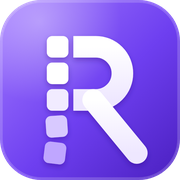
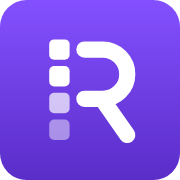
Add files via upload

diff --git a/products/rightowner/index.html b/products/rightowner/index.html
@@ -27,7 +27,7 @@
 <a class="skip" href="#main">Skip to content</a>
 <header class="site-header">
   <nav class="container nav" aria-label="Main">
-    <a class="logo" href="/" aria-label="RuBuild Services home"><img src="/assets/img/rubuild-mark.svg" alt="" width="30" height="36"><b>Ru<span>Build</span></b></a>
+    <a class="logo" href="/" aria-label="RuBuild Services home"><img src="/assets/img/rubuild-icon.svg" alt="" width="34" height="34"><b>Ru<span>Build</span></b></a>
     <button class="menu-btn" type="button" aria-expanded="false" aria-controls="nav-links">Menu</button>
     <ul class="nav-links" id="nav-links"><li><a href="/">Home</a></li><li><a href="/#products">Products</a></li><li><a href="/products/rightowner/" aria-current="page">RightOwner</a></li><li><a href="/services/">Services</a></li><li><a href="/about/">About</a></li><li><a href="/contact/">Contact</a></li></ul>
   </nav>
@@ -40,7 +40,7 @@
       <span class="eyebrow">RightOwner for Microsoft Teams</span>
       <h1>The ownership directory for Microsoft 365 companies.</h1>
       <p class="lead">Every system, process, vendor and budget, with an owner and a backup. Searchable in Teams, kept current automatically.</p>
-      <div class="hero-actions"><a class="btn btn-light appsource" href="/products/rightowner/"><span class="lbl">Get RightOwner on AppSource</span></a><a class="btn btn-ghost" href="#pricing">See pricing</a></div>
+      <div class="hero-actions"><a class="btn btn-light appsource" href="/products/rightowner/"><span class="lbl">Get RightOwner on Microsoft Marketplace</span></a><a class="btn btn-ghost" href="#pricing">See pricing</a></div>
       <p class="hero-note">Free for up to 25 items · Pro and Business plans launching soon</p>
     </div>
     <div class="hero-shot"><picture><source srcset="/assets/img/shot-search.webp" type="image/webp"><img src="/assets/img/shot-search.jpg" alt="Searching the RightOwner directory in Microsoft Teams" width="1200" height="675"></picture></div>
@@ -102,15 +102,15 @@
       <div class="plan"><h3>Free</h3><p class="for">Try it properly with your team.</p>
         <div class="price">$0</div><div class="price-alt">Free forever</div>
         <ul><li>Up to 25 items</li><li>Unlimited people</li><li>Every feature included</li></ul>
-        <a class="btn btn-outline appsource" href="/products/rightowner/"><span class="lbl">Get RightOwner on AppSource</span></a></div>
+        <a class="btn btn-outline appsource" href="/products/rightowner/"><span class="lbl">Get RightOwner on Microsoft Marketplace</span></a></div>
       <div class="plan featured"><span class="badge">MOST POPULAR</span><h3>Pro</h3><p class="for">For companies with up to 250 people.</p>
         <div class="price">$29<small> / month</small></div><div class="price-alt">or $290 / year (2 months free)</div>
         <ul><li>Unlimited items</li><li>Unlimited people (up to 250)</li><li>Every feature included</li><li>30-day free trial</li></ul>
-        <a class="btn btn-primary appsource" href="/products/rightowner/"><span class="lbl">Get RightOwner on AppSource</span></a></div>
+        <a class="btn btn-primary appsource" href="/products/rightowner/"><span class="lbl">Get RightOwner on Microsoft Marketplace</span></a></div>
       <div class="plan"><h3>Business</h3><p class="for">For companies of any size.</p>
         <div class="price">$79<small> / month</small></div><div class="price-alt">or $790 / year (2 months free)</div>
         <ul><li>Unlimited items</li><li>Unlimited people</li><li>Every feature included</li><li>30-day free trial</li></ul>
-        <a class="btn btn-outline appsource" href="/products/rightowner/"><span class="lbl">Get RightOwner on AppSource</span></a></div>
+        <a class="btn btn-outline appsource" href="/products/rightowner/"><span class="lbl">Get RightOwner on Microsoft Marketplace</span></a></div>
     </div>
     <p class="fineprint">Prices in US dollars; Microsoft bills in your local currency where applicable. Change or cancel any time in the Microsoft 365 admin center.</p>
   </div>
@@ -133,14 +133,14 @@
   <p style="text-align:center;margin-top:20px"><a href="/faq/">All questions →</a></p>
 </div></section>
 <section><div class="container"><div class="cta"><div><h2>Find the right owner in seconds</h2><p>Install RightOwner in Microsoft Teams and set up your directory in minutes.</p></div>
-    <div class="hero-actions"><a class="btn btn-light appsource" href="/products/rightowner/"><span class="lbl">Get RightOwner on AppSource</span></a><a class="btn btn-ghost" href="/contact/">Talk to us</a></div></div></div></section>
+    <div class="hero-actions"><a class="btn btn-light appsource" href="/products/rightowner/"><span class="lbl">Get RightOwner on Microsoft Marketplace</span></a><a class="btn btn-ghost" href="/contact/">Talk to us</a></div></div></div></section>
 
 </main>
 <footer class="site-footer">
   <div class="container">
     <div class="footer-grid">
       <div>
-        <a class="logo" href="/"><img src="/assets/img/rubuild-mark-white.svg" alt="" width="30" height="36"><b>Ru<span>Build</span></b></a>
+        <a class="logo" href="/"><img src="/assets/img/rubuild-icon.svg" alt="" width="34" height="34"><b>Ru<span>Build</span></b></a>
         <p style="margin:14px 0 0;max-width:320px">We build Microsoft 365 apps that solve everyday work problems.</p>
       </div>
       <div><h4>Products</h4><ul><li><a href="/products/rightowner/">RightOwner</a></li><li><a href="/products/rightowner/#pricing">RightOwner pricing</a></li><li><a href="/faq/">FAQ</a></li></ul></div>

diff --git a/index.html b/index.html
@@ -27,7 +27,7 @@
 <a class="skip" href="#main">Skip to content</a>
 <header class="site-header">
   <nav class="container nav" aria-label="Main">
-    <a class="logo" href="/" aria-label="RuBuild Services home"><img src="/assets/img/rubuild-mark.svg" alt="" width="30" height="36"><b>Ru<span>Build</span></b></a>
+    <a class="logo" href="/" aria-label="RuBuild Services home"><img src="/assets/img/rubuild-icon.svg" alt="" width="34" height="34"><b>Ru<span>Build</span></b></a>
     <button class="menu-btn" type="button" aria-expanded="false" aria-controls="nav-links">Menu</button>
     <ul class="nav-links" id="nav-links"><li><a href="/" aria-current="page">Home</a></li><li><a href="/#products">Products</a></li><li><a href="/products/rightowner/">RightOwner</a></li><li><a href="/services/">Services</a></li><li><a href="/about/">About</a></li><li><a href="/contact/">Contact</a></li></ul>
   </nav>
@@ -41,7 +41,7 @@
       <h1>We build Microsoft 365 apps that fix everyday work problems.</h1>
       <p class="lead">Simple, focused apps that live inside Microsoft Teams and Microsoft 365, keep your data in your own tenant, and are billed through Microsoft.</p>
       <div class="hero-actions"><a class="btn btn-light" href="/#products">Explore our products</a><a class="btn btn-ghost" href="/contact/">Talk to us</a></div>
-      <p class="hero-note">Microsoft-verified publisher</p>
+      <p class="hero-note">Microsoft-verified publisher · Apps on Microsoft AppSource</p>
     </div>
     <div class="hero-shot"><picture><source srcset="/assets/img/shot-directory.webp" type="image/webp"><img src="/assets/img/shot-directory.jpg" alt="RightOwner, a RuBuild app, running in Microsoft Teams" width="1200" height="675"></picture></div>
   </div>
@@ -57,7 +57,7 @@
         <h3>Know who owns what, across your whole company.</h3>
         <p>One trusted directory of owners and backups for every system, process, vendor and budget. Search in Teams, spot owners who have left, and keep it current with 90-day check-ups.</p>
         <ul><li>Find the right person in seconds</li><li>Leaver alerts and one-step hand-over</li><li>Data stays in your own Microsoft 365</li><li>Free for up to 25 items · paid plans launching soon</li></ul>
-        <div class="hero-actions"><a class="btn btn-primary" href="/products/rightowner/">Learn more</a><a class="btn btn-outline appsource" href="/products/rightowner/"><span class="lbl">Get RightOwner on AppSource</span></a></div>
+        <div class="hero-actions"><a class="btn btn-primary" href="/products/rightowner/">Learn more</a><a class="btn btn-outline appsource" href="/products/rightowner/"><span class="lbl">Get RightOwner on Microsoft Marketplace</span></a></div>
       </div>
       <div class="shot"><picture><source srcset="/assets/img/shot-checkups.webp" type="image/webp"><img src="/assets/img/shot-checkups.jpg" alt="RightOwner ownership check-ups" width="1200" height="675" loading="lazy"></picture></div>
     </div>
@@ -95,7 +95,7 @@
   <div class="container">
     <div class="footer-grid">
       <div>
-        <a class="logo" href="/"><img src="/assets/img/rubuild-mark-white.svg" alt="" width="30" height="36"><b>Ru<span>Build</span></b></a>
+        <a class="logo" href="/"><img src="/assets/img/rubuild-icon.svg" alt="" width="34" height="34"><b>Ru<span>Build</span></b></a>
         <p style="margin:14px 0 0;max-width:320px">We build Microsoft 365 apps that solve everyday work problems.</p>
       </div>
       <div><h4>Products</h4><ul><li><a href="/products/rightowner/">RightOwner</a></li><li><a href="/products/rightowner/#pricing">RightOwner pricing</a></li><li><a href="/faq/">FAQ</a></li></ul></div>

diff --git a/about/index.html b/about/index.html
@@ -27,7 +27,7 @@
 <a class="skip" href="#main">Skip to content</a>
 <header class="site-header">
   <nav class="container nav" aria-label="Main">
-    <a class="logo" href="/" aria-label="RuBuild Services home"><img src="/assets/img/rubuild-mark.svg" alt="" width="30" height="36"><b>Ru<span>Build</span></b></a>
+    <a class="logo" href="/" aria-label="RuBuild Services home"><img src="/assets/img/rubuild-icon.svg" alt="" width="34" height="34"><b>Ru<span>Build</span></b></a>
     <button class="menu-btn" type="button" aria-expanded="false" aria-controls="nav-links">Menu</button>
     <ul class="nav-links" id="nav-links"><li><a href="/">Home</a></li><li><a href="/#products">Products</a></li><li><a href="/products/rightowner/">RightOwner</a></li><li><a href="/services/">Services</a></li><li><a href="/about/" aria-current="page">About</a></li><li><a href="/contact/">Contact</a></li></ul>
   </nav>
@@ -46,14 +46,14 @@
   <p>RuBuild Services · Microsoft-verified publisher<br>Email: <a href="mailto:support@rubuild.com">support@rubuild.com</a></p>
 </div></section>
 <section><div class="container"><div class="cta"><div><h2>Find the right owner in seconds</h2><p>Install RightOwner in Microsoft Teams and set up your directory in minutes.</p></div>
-    <div class="hero-actions"><a class="btn btn-light appsource" href="/products/rightowner/"><span class="lbl">Get RightOwner on AppSource</span></a><a class="btn btn-ghost" href="/contact/">Talk to us</a></div></div></div></section>
+    <div class="hero-actions"><a class="btn btn-light appsource" href="/products/rightowner/"><span class="lbl">Get RightOwner on Microsoft Marketplace</span></a><a class="btn btn-ghost" href="/contact/">Talk to us</a></div></div></div></section>
 
 </main>
 <footer class="site-footer">
   <div class="container">
     <div class="footer-grid">
       <div>
-        <a class="logo" href="/"><img src="/assets/img/rubuild-mark-white.svg" alt="" width="30" height="36"><b>Ru<span>Build</span></b></a>
+        <a class="logo" href="/"><img src="/assets/img/rubuild-icon.svg" alt="" width="34" height="34"><b>Ru<span>Build</span></b></a>
         <p style="margin:14px 0 0;max-width:320px">We build Microsoft 365 apps that solve everyday work problems.</p>
       </div>
       <div><h4>Products</h4><ul><li><a href="/products/rightowner/">RightOwner</a></li><li><a href="/products/rightowner/#pricing">RightOwner pricing</a></li><li><a href="/faq/">FAQ</a></li></ul></div>

diff --git a/contact/index.html b/contact/index.html
@@ -27,7 +27,7 @@
 <a class="skip" href="#main">Skip to content</a>
 <header class="site-header">
   <nav class="container nav" aria-label="Main">
-    <a class="logo" href="/" aria-label="RuBuild Services home"><img src="/assets/img/rubuild-mark.svg" alt="" width="30" height="36"><b>Ru<span>Build</span></b></a>
+    <a class="logo" href="/" aria-label="RuBuild Services home"><img src="/assets/img/rubuild-icon.svg" alt="" width="34" height="34"><b>Ru<span>Build</span></b></a>
     <button class="menu-btn" type="button" aria-expanded="false" aria-controls="nav-links">Menu</button>
     <ul class="nav-links" id="nav-links"><li><a href="/">Home</a></li><li><a href="/#products">Products</a></li><li><a href="/products/rightowner/">RightOwner</a></li><li><a href="/services/">Services</a></li><li><a href="/about/">About</a></li><li><a href="/contact/" aria-current="page">Contact</a></li></ul>
   </nav>
@@ -54,7 +54,7 @@
   <div class="container">
     <div class="footer-grid">
       <div>
-        <a class="logo" href="/"><img src="/assets/img/rubuild-mark-white.svg" alt="" width="30" height="36"><b>Ru<span>Build</span></b></a>
+        <a class="logo" href="/"><img src="/assets/img/rubuild-icon.svg" alt="" width="34" height="34"><b>Ru<span>Build</span></b></a>
         <p style="margin:14px 0 0;max-width:320px">We build Microsoft 365 apps that solve everyday work problems.</p>
       </div>
       <div><h4>Products</h4><ul><li><a href="/products/rightowner/">RightOwner</a></li><li><a href="/products/rightowner/#pricing">RightOwner pricing</a></li><li><a href="/faq/">FAQ</a></li></ul></div>

diff --git a/services/index.html b/services/index.html
@@ -27,7 +27,7 @@
 <a class="skip" href="#main">Skip to content</a>
 <header class="site-header">
   <nav class="container nav" aria-label="Main">
-    <a class="logo" href="/" aria-label="RuBuild Services home"><img src="/assets/img/rubuild-mark.svg" alt="" width="30" height="36"><b>Ru<span>Build</span></b></a>
+    <a class="logo" href="/" aria-label="RuBuild Services home"><img src="/assets/img/rubuild-icon.svg" alt="" width="34" height="34"><b>Ru<span>Build</span></b></a>
     <button class="menu-btn" type="button" aria-expanded="false" aria-controls="nav-links">Menu</button>
     <ul class="nav-links" id="nav-links"><li><a href="/">Home</a></li><li><a href="/#products">Products</a></li><li><a href="/products/rightowner/">RightOwner</a></li><li><a href="/services/" aria-current="page">Services</a></li><li><a href="/about/">About</a></li><li><a href="/contact/">Contact</a></li></ul>
   </nav>
@@ -65,7 +65,7 @@
   <div class="container">
     <div class="footer-grid">
       <div>
-        <a class="logo" href="/"><img src="/assets/img/rubuild-mark-white.svg" alt="" width="30" height="36"><b>Ru<span>Build</span></b></a>
+        <a class="logo" href="/"><img src="/assets/img/rubuild-icon.svg" alt="" width="34" height="34"><b>Ru<span>Build</span></b></a>
         <p style="margin:14px 0 0;max-width:320px">We build Microsoft 365 apps that solve everyday work problems.</p>
       </div>
       <div><h4>Products</h4><ul><li><a href="/products/rightowner/">RightOwner</a></li><li><a href="/products/rightowner/#pricing">RightOwner pricing</a></li><li><a href="/faq/">FAQ</a></li></ul></div>

diff --git a/404.html b/404.html
@@ -27,7 +27,7 @@
 <a class="skip" href="#main">Skip to content</a>
 <header class="site-header">
   <nav class="container nav" aria-label="Main">
-    <a class="logo" href="/" aria-label="RuBuild Services home"><img src="/assets/img/rubuild-mark.svg" alt="" width="30" height="36"><b>Ru<span>Build</span></b></a>
+    <a class="logo" href="/" aria-label="RuBuild Services home"><img src="/assets/img/rubuild-icon.svg" alt="" width="34" height="34"><b>Ru<span>Build</span></b></a>
     <button class="menu-btn" type="button" aria-expanded="false" aria-controls="nav-links">Menu</button>
     <ul class="nav-links" id="nav-links"><li><a href="/">Home</a></li><li><a href="/#products">Products</a></li><li><a href="/products/rightowner/">RightOwner</a></li><li><a href="/services/">Services</a></li><li><a href="/about/">About</a></li><li><a href="/contact/">Contact</a></li></ul>
   </nav>
@@ -40,7 +40,7 @@
   <div class="container">
     <div class="footer-grid">
       <div>
-        <a class="logo" href="/"><img src="/assets/img/rubuild-mark-white.svg" alt="" width="30" height="36"><b>Ru<span>Build</span></b></a>
+        <a class="logo" href="/"><img src="/assets/img/rubuild-icon.svg" alt="" width="34" height="34"><b>Ru<span>Build</span></b></a>
         <p style="margin:14px 0 0;max-width:320px">We build Microsoft 365 apps that solve everyday work problems.</p>
       </div>
       <div><h4>Products</h4><ul><li><a href="/products/rightowner/">RightOwner</a></li><li><a href="/products/rightowner/#pricing">RightOwner pricing</a></li><li><a href="/faq/">FAQ</a></li></ul></div>

diff --git a/faq/index.html b/faq/index.html
@@ -27,7 +27,7 @@
 <a class="skip" href="#main">Skip to content</a>
 <header class="site-header">
   <nav class="container nav" aria-label="Main">
-    <a class="logo" href="/" aria-label="RuBuild Services home"><img src="/assets/img/rubuild-mark.svg" alt="" width="30" height="36"><b>Ru<span>Build</span></b></a>
+    <a class="logo" href="/" aria-label="RuBuild Services home"><img src="/assets/img/rubuild-icon.svg" alt="" width="34" height="34"><b>Ru<span>Build</span></b></a>
     <button class="menu-btn" type="button" aria-expanded="false" aria-controls="nav-links">Menu</button>
     <ul class="nav-links" id="nav-links"><li><a href="/">Home</a></li><li><a href="/#products">Products</a></li><li><a href="/products/rightowner/">RightOwner</a></li><li><a href="/services/">Services</a></li><li><a href="/about/">About</a></li><li><a href="/contact/">Contact</a></li></ul>
   </nav>
@@ -40,7 +40,7 @@
   <div class="container">
     <div class="footer-grid">
       <div>
-        <a class="logo" href="/"><img src="/assets/img/rubuild-mark-white.svg" alt="" width="30" height="36"><b>Ru<span>Build</span></b></a>
+        <a class="logo" href="/"><img src="/assets/img/rubuild-icon.svg" alt="" width="34" height="34"><b>Ru<span>Build</span></b></a>
         <p style="margin:14px 0 0;max-width:320px">We build Microsoft 365 apps that solve everyday work problems.</p>
       </div>
       <div><h4>Products</h4><ul><li><a href="/products/rightowner/">RightOwner</a></li><li><a href="/products/rightowner/#pricing">RightOwner pricing</a></li><li><a href="/faq/">FAQ</a></li></ul></div>

diff --git a/privacy/index.html b/privacy/index.html
@@ -27,7 +27,7 @@
 <a class="skip" href="#main">Skip to content</a>
 <header class="site-header">
   <nav class="container nav" aria-label="Main">
-    <a class="logo" href="/" aria-label="RuBuild Services home"><img src="/assets/img/rubuild-mark.svg" alt="" width="30" height="36"><b>Ru<span>Build</span></b></a>
+    <a class="logo" href="/" aria-label="RuBuild Services home"><img src="/assets/img/rubuild-icon.svg" alt="" width="34" height="34"><b>Ru<span>Build</span></b></a>
     <button class="menu-btn" type="button" aria-expanded="false" aria-controls="nav-links">Menu</button>
     <ul class="nav-links" id="nav-links"><li><a href="/">Home</a></li><li><a href="/#products">Products</a></li><li><a href="/products/rightowner/">RightOwner</a></li><li><a href="/services/">Services</a></li><li><a href="/about/">About</a></li><li><a href="/contact/">Contact</a></li></ul>
   </nav>
@@ -42,7 +42,7 @@
   <div class="container">
     <div class="footer-grid">
       <div>
-        <a class="logo" href="/"><img src="/assets/img/rubuild-mark-white.svg" alt="" width="30" height="36"><b>Ru<span>Build</span></b></a>
+        <a class="logo" href="/"><img src="/assets/img/rubuild-icon.svg" alt="" width="34" height="34"><b>Ru<span>Build</span></b></a>
         <p style="margin:14px 0 0;max-width:320px">We build Microsoft 365 apps that solve everyday work problems.</p>
       </div>
       <div><h4>Products</h4><ul><li><a href="/products/rightowner/">RightOwner</a></li><li><a href="/products/rightowner/#pricing">RightOwner pricing</a></li><li><a href="/faq/">FAQ</a></li></ul></div>

diff --git a/support/index.html b/support/index.html
@@ -27,7 +27,7 @@
 <a class="skip" href="#main">Skip to content</a>
 <header class="site-header">
   <nav class="container nav" aria-label="Main">
-    <a class="logo" href="/" aria-label="RuBuild Services home"><img src="/assets/img/rubuild-mark.svg" alt="" width="30" height="36"><b>Ru<span>Build</span></b></a>
+    <a class="logo" href="/" aria-label="RuBuild Services home"><img src="/assets/img/rubuild-icon.svg" alt="" width="34" height="34"><b>Ru<span>Build</span></b></a>
     <button class="menu-btn" type="button" aria-expanded="false" aria-controls="nav-links">Menu</button>
     <ul class="nav-links" id="nav-links"><li><a href="/">Home</a></li><li><a href="/#products">Products</a></li><li><a href="/products/rightowner/">RightOwner</a></li><li><a href="/services/">Services</a></li><li><a href="/about/">About</a></li><li><a href="/contact/">Contact</a></li></ul>
   </nav>
@@ -67,7 +67,7 @@
   <div class="container">
     <div class="footer-grid">
       <div>
-        <a class="logo" href="/"><img src="/assets/img/rubuild-mark-white.svg" alt="" width="30" height="36"><b>Ru<span>Build</span></b></a>
+        <a class="logo" href="/"><img src="/assets/img/rubuild-icon.svg" alt="" width="34" height="34"><b>Ru<span>Build</span></b></a>
         <p style="margin:14px 0 0;max-width:320px">We build Microsoft 365 apps that solve everyday work problems.</p>
       </div>
       <div><h4>Products</h4><ul><li><a href="/products/rightowner/">RightOwner</a></li><li><a href="/products/rightowner/#pricing">RightOwner pricing</a></li><li><a href="/faq/">FAQ</a></li></ul></div>

diff --git a/terms/index.html b/terms/index.html
@@ -27,7 +27,7 @@
 <a class="skip" href="#main">Skip to content</a>
 <header class="site-header">
   <nav class="container nav" aria-label="Main">
-    <a class="logo" href="/" aria-label="RuBuild Services home"><img src="/assets/img/rubuild-mark.svg" alt="" width="30" height="36"><b>Ru<span>Build</span></b></a>
+    <a class="logo" href="/" aria-label="RuBuild Services home"><img src="/assets/img/rubuild-icon.svg" alt="" width="34" height="34"><b>Ru<span>Build</span></b></a>
     <button class="menu-btn" type="button" aria-expanded="false" aria-controls="nav-links">Menu</button>
     <ul class="nav-links" id="nav-links"><li><a href="/">Home</a></li><li><a href="/#products">Products</a></li><li><a href="/products/rightowner/">RightOwner</a></li><li><a href="/services/">Services</a></li><li><a href="/about/">About</a></li><li><a href="/contact/">Contact</a></li></ul>
   </nav>
@@ -44,7 +44,7 @@
   <div class="container">
     <div class="footer-grid">
       <div>
-        <a class="logo" href="/"><img src="/assets/img/rubuild-mark-white.svg" alt="" width="30" height="36"><b>Ru<span>Build</span></b></a>
+        <a class="logo" href="/"><img src="/assets/img/rubuild-icon.svg" alt="" width="34" height="34"><b>Ru<span>Build</span></b></a>
         <p style="margin:14px 0 0;max-width:320px">We build Microsoft 365 apps that solve everyday work problems.</p>
       </div>
       <div><h4>Products</h4><ul><li><a href="/products/rightowner/">RightOwner</a></li><li><a href="/products/rightowner/#pricing">RightOwner pricing</a></li><li><a href="/faq/">FAQ</a></li></ul></div>

diff --git a/assets/site.css b/assets/site.css
@@ -33,7 +33,7 @@ a:hover { color: var(--brand-dark); }
 .site-header { position: sticky; top: 0; z-index: 50; background: rgba(255,255,255,.92); backdrop-filter: saturate(160%) blur(10px); border-bottom: 1px solid var(--line); }
 .nav { display: flex; align-items: center; justify-content: space-between; height: 68px; gap: 16px; }
 .logo { display: flex; align-items: center; gap: 10px; text-decoration: none; color: var(--brand-dark); }
-.logo img { width: 30px; height: 36px; }
+.logo img { width: 34px; height: 34px; }
 .logo b { font-size: 21px; font-weight: 800; letter-spacing: -.02em; }
 .logo b span { color: var(--brand); }
 .nav-links { display: flex; align-items: center; gap: 26px; list-style: none; margin: 0; padding: 0; }

diff --git a/assets/site.js b/assets/site.js
@@ -1,6 +1,6 @@
 // RuBuild site: mobile menu + AppSource links
 (function () {
-  var APPSOURCE_URL = "";
+  var APPSOURCE_URL = "https://marketplace.microsoft.com/en-us/product/WA200013100";
   var btn = document.querySelector(".menu-btn"), links = document.getElementById("nav-links");
   if (btn && links) btn.addEventListener("click", function () {
     var open = links.classList.toggle("open"); btn.setAttribute("aria-expanded", open ? "true" : "false");
